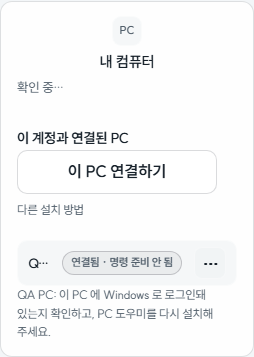
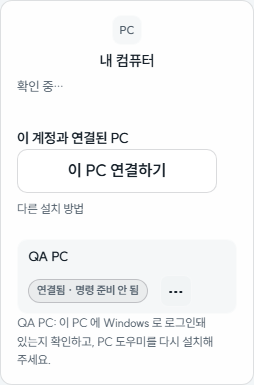
fix(chat-pc): 좁은 카드에서 PC 이름이 잘리지 않게 배지 위치 조정 (#7975)

diff --git a/apps/padiem-chat/static/pc-command-ready.js b/apps/padiem-chat/static/pc-command-ready.js
@@ -25,6 +25,7 @@
   var lastBody = null;
   var painting = false;
   var observer = null;
+  var resizeObserver = null;
   var lastRowCount = -1;
 
   function copy() {
@@ -49,15 +50,42 @@
     });
   }
 
+  function fitName(row) {
+    var name = row.querySelector(".pc-pairing-name");
+    var badge = row.querySelector(".pc-pairing-state");
+    if (!name || !badge || row.dataset.commandReady !== "not_ready") return;
+    var width = row.getBoundingClientRect().width;
+    if (width <= 0) return;
+    // A hidden card reports zero width, so decide from the real row width as
+    // well as measured overflow: a narrow card puts the badge below the name,
+    // a wide card keeps the original single line.
+    var clipped = name.scrollWidth > name.clientWidth;
+    if (clipped || width < 300) {
+      row.style.flexWrap = "wrap";
+      name.style.flex = "0 0 100%";
+      badge.style.marginLeft = "0";
+    } else {
+      row.style.flexWrap = "";
+      name.style.flex = "";
+      badge.style.marginLeft = "";
+    }
+  }
+
   function clear(row) {
     if (row.dataset.commandReady) row.dataset.commandReady = "";
+    row.style.flexWrap = "";
+    var name = row.querySelector(".pc-pairing-name");
+    if (name) name.style.flex = "";
     var badge = row.querySelector(".pc-pairing-state");
-    if (badge && badge.dataset.commandReadyOwner === "1") {
-      badge.textContent = badge.dataset.previousText || "";
-      badge.dataset.state = badge.dataset.previousState || "";
-      delete badge.dataset.commandReadyOwner;
-      delete badge.dataset.previousText;
-      delete badge.dataset.previousState;
+    if (badge) {
+      badge.style.marginLeft = "";
+      if (badge.dataset.commandReadyOwner === "1") {
+        badge.textContent = badge.dataset.previousText || "";
+        badge.dataset.state = badge.dataset.previousState || "";
+        delete badge.dataset.commandReadyOwner;
+        delete badge.dataset.previousText;
+        delete badge.dataset.previousState;
+      }
     }
   }
 
@@ -113,6 +141,7 @@
         // Reuse the existing muted state style: no new CSS rule or colour literal.
         if (badge.dataset.state !== "offline") badge.dataset.state = "offline";
       }
+      fitName(row);
       notices.push(element("p", "pc-pairing-help", (link.label || "") + ": " + t.help));
     }
     clearHelp(section);
@@ -147,6 +176,13 @@
       paint(lastBody);
     });
     observer.observe(section, { childList: true, subtree: true });
+    if (typeof ResizeObserver !== "undefined") {
+      resizeObserver = new ResizeObserver(function () {
+        var rows = section.querySelectorAll('li.pc-pairing-link[data-command-ready="not_ready"]');
+        for (var i = 0; i < rows.length; i++) fitName(rows[i]);
+      });
+      resizeObserver.observe(section);
+    }
   }
 
   function start() {

diff --git a/apps/padiem-chat/tests/test_7975_pc_command_ready_ui.py b/apps/padiem-chat/tests/test_7975_pc_command_ready_ui.py
@@ -6,7 +6,18 @@ contract that CI can always check.
 """
 from __future__ import annotations
 
+import http.server
+import json
+import re
+import threading
 from pathlib import Path
+
+import pytest
+
+try:
+    from playwright.sync_api import sync_playwright
+except ImportError:
+    sync_playwright = None
 
 STATIC = Path(__file__).resolve().parents[1] / "static"
 MODULE = STATIC / "pc-command-ready.js"
@@ -47,3 +58,67 @@ def test_index_wires_module_after_the_pairing_card():
     card = html.index('./pc-pairing-card.js')
     module = html.index('./pc-command-ready.js')
     assert module > card
+
+
+@pytest.mark.skipif(sync_playwright is None, reason="playwright is not installed")
+def test_a_narrow_card_keeps_the_pc_name_readable():
+    """#7975 CTO capture: at 260px the badge must not ellipsize the name."""
+    class Handler(http.server.SimpleHTTPRequestHandler):
+        def __init__(self, *args, **kwargs):
+            super().__init__(*args, directory=str(STATIC), **kwargs)
+
+        def log_message(self, *args):
+            pass
+
+    link = {"link_id": "pclink_qa", "state": "active", "online": True,
+            "label": "QA PC", "command_ready": "not_ready",
+            "last_user_session_failure_at": "2026-11-18T02:41:00.000Z"}
+    web = http.server.ThreadingHTTPServer(("127.0.0.1", 0), Handler)
+    threading.Thread(target=web.serve_forever, daemon=True).start()
+    try:
+        base = f"http://127.0.0.1:{web.server_address[1]}/index.html"
+        with sync_playwright() as pw:
+            browser = pw.chromium.launch(headless=True)
+            page = browser.new_page(viewport={"width": 1440, "height": 950})
+            page.route(re.compile(r".*/api/.*$"),
+                       lambda route, req: route.fulfill(
+                           status=404, content_type="application/json", body="{}"))
+            page.route(re.compile(r".*/api/pc/pairings$"),
+                       lambda route, req: route.fulfill(
+                           status=200, content_type="application/json",
+                           body=json.dumps({"ok": True, "links": [link], "codes": []},
+                                           ensure_ascii=False)))
+            signed_in = {"ok": True, "authenticated": True, "ready": True,
+                         "user": {"name": "QA", "email": "qa@example.test"}}
+            page.route(re.compile(r".*/api/auth/status$"),
+                       lambda route, req: route.fulfill(
+                           status=200, content_type="application/json",
+                           body=json.dumps(signed_in, ensure_ascii=False)))
+            directory = {"ok": True, "available": True, "ownerScoped": True, "devices": []}
+            page.route(re.compile(r".*/api/claw/local-access/devices$"),
+                       lambda route, req: route.fulfill(
+                           status=200, content_type="application/json",
+                           body=json.dumps(directory, ensure_ascii=False)))
+            page.goto(base, wait_until="domcontentloaded")
+            page.evaluate("""() => {
+              const d = document.getElementById('connectorsDialog');
+              if (d && !d.open) d.showModal();
+              const s = document.getElementById('pcPairingSection');
+              if (s) s.style.setProperty('display', 'block', 'important');
+              const c = document.getElementById('connectorComputerCard');
+              if (c) c.style.width = '260px';
+            }""")
+            row = page.locator("#pcPairingSection li.pc-pairing-link").first
+            row.wait_for(state="visible", timeout=20000)
+            page.wait_for_timeout(500)
+            name = row.locator(".pc-pairing-name")
+            metrics = name.evaluate("""el => ({
+              text: el.textContent, scrollWidth: el.scrollWidth,
+              clientWidth: el.clientWidth, badge: el.parentElement.dataset.commandReady
+            })""")
+            browser.close()
+    finally:
+        web.shutdown()
+    assert metrics["text"] == "QA PC"
+    assert metrics["badge"] == "not_ready"
+    assert metrics["scrollWidth"] <= metrics["clientWidth"], metrics
